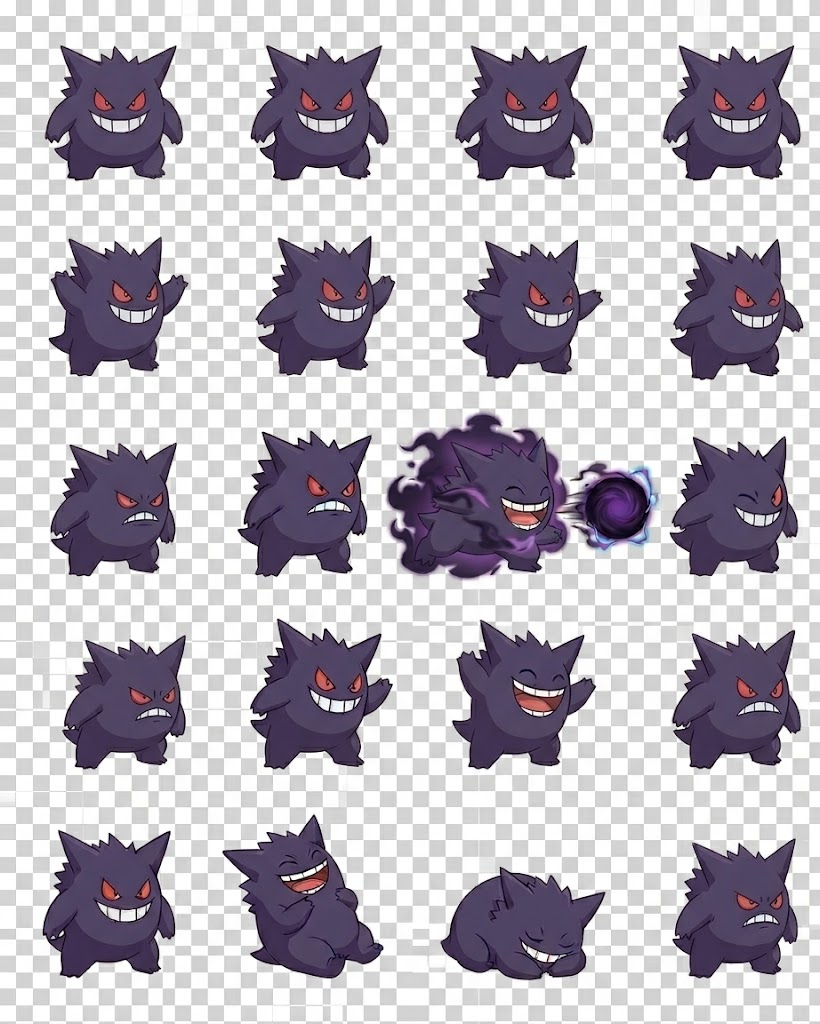
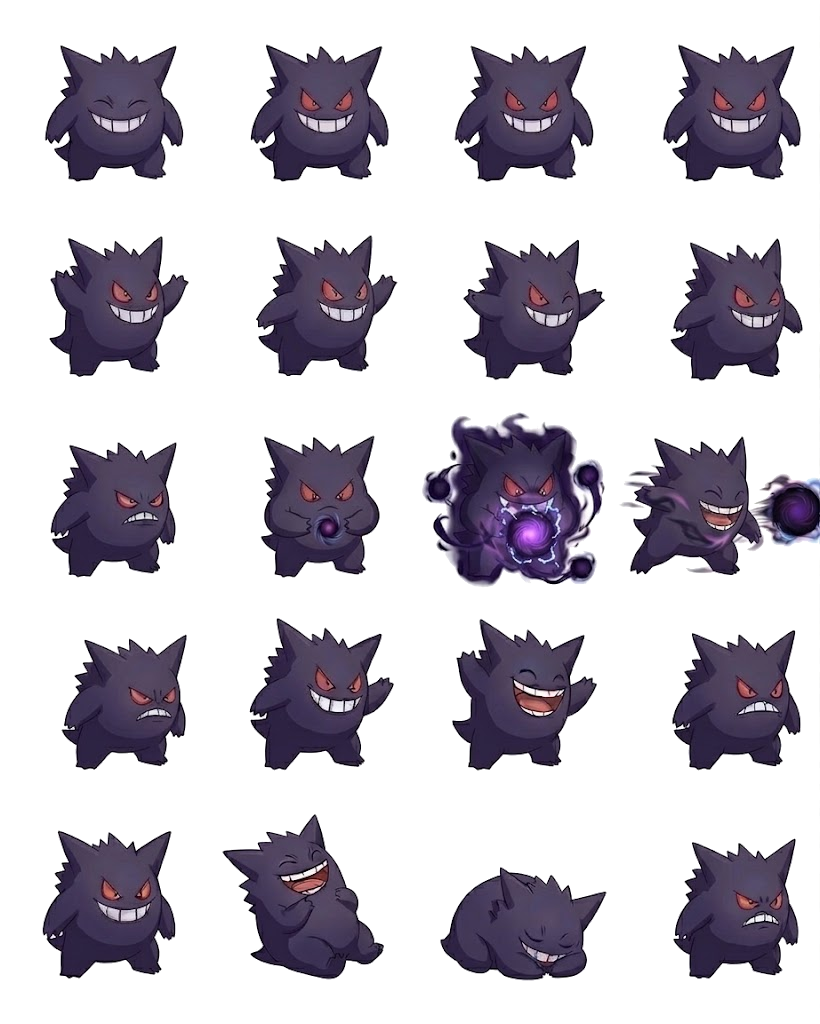
Update Gengar and Pikachu raft sprites

diff --git a/lib/raft-sprites.ts b/lib/raft-sprites.ts
@@ -16,13 +16,19 @@ export const RAFT_SPRITES: Record<string, { sheet?: string; fallback: string; he
   bidoof: { sheet: "/images/raft/bidoof-sheet.png", fallback: "/images/puzzle/bidoof.png", height: 142, element: "rock", color: "#cfad82" },
 };
 
-// The supplied Pikachu sheet places its poses across rows rather than in pose-only rows.
-const PIKACHU_FRAMES: Record<RaftPose, readonly (readonly [number, number])[]> = {
-  breathing: [[0, 1], [0, 2], [4, 0], [4, 3]],
-  walking: [[1, 0], [1, 1], [1, 2], [1, 3]],
-  attacking: [[2, 0], [2, 1], [2, 2], [2, 3]],
-  taunting: [[4, 1], [4, 2], [3, 2], [3, 3]],
-  hit: [[3, 0], [3, 1], [3, 0], [3, 1]],
+// The supplied sheets mix expressions across some rows and have effects at cell edges.
+const SPRITE_FRAME_OVERRIDES: Record<string, Partial<Record<RaftPose, readonly (readonly [number, number])[]>>> = {
+  gengar: {
+    attacking: [[2, 0], [2, 1], [2, 2], [2, 2]],
+    taunting: [[3, 1], [3, 2], [4, 1], [3, 2]],
+    hit: [[3, 0], [3, 3], [4, 3], [4, 2]],
+  },
+  pikachu: {
+    breathing: [[2, 0], [0, 2], [4, 0], [4, 3]],
+    attacking: [[2, 0], [2, 1], [2, 2], [2, 2]],
+    taunting: [[4, 1], [4, 2], [3, 2], [4, 2]],
+    hit: [[3, 0], [3, 1], [3, 0], [3, 1]],
+  },
 };
 
 export function raftSpriteFrame(pose: RaftPose, elapsed: number, reducedMotion: boolean, pokemon?: string): { row: number; column: number } {
@@ -31,8 +37,9 @@ export function raftSpriteFrame(pose: RaftPose, elapsed: number, reducedMotion: 
   // Keep the action readable without recurring spatial motion.
   const column = reducedMotion ? (pose === "breathing" || pose === "walking" ? 0 : pose === "hit" ? 3 : 2)
     : animation.loop ? frame % 4 : Math.min(3, frame);
-  if (pokemon === "pikachu") {
-    const [row, mappedColumn] = PIKACHU_FRAMES[pose][column];
+  const mappedFrame = SPRITE_FRAME_OVERRIDES[pokemon ?? ""]?.[pose]?.[column];
+  if (mappedFrame) {
+    const [row, mappedColumn] = mappedFrame;
     return { row, column: mappedColumn };
   }
   return { row: animation.row, column };

diff --git a/public/images/raft/README.md b/public/images/raft/README.md
@@ -10,9 +10,9 @@
 
 Frames face right; the opposing player's frames are mirrored in the renderer. The canvas scales the sheet cells without modifying the original image.
 
-`gengar-sheet.png` is a user-provided 4-by-5 sheet now used for Gengar. Despite its filename, the supplied file is JPEG-encoded and has an opaque checkerboard background; part of the Shadow Ball crosses an attack-frame boundary. It needs a true transparent PNG with the effect contained in its cell for clean rendering. The `gengar-sheet.prompt.txt` file records an earlier, unsuccessful generation attempt, not the source of this sheet.
+`gengar-sheet.png` is a user-provided transparent PNG (820 by 1024 pixels) used for Gengar. The renderer selects its taunt and hit frames individually so the hit ends on the collapsed pose; it repeats the charged Shadow Ball frame instead of showing the clipped final orb at the sheet edge. The `gengar-sheet.prompt.txt` file records an earlier, unsuccessful generation attempt, not the source of this sheet.
 
-`pikachu-sheet.png` is a user-provided 4-by-5 sheet now used for Pikachu. It is also JPEG-encoded with an opaque checkerboard. Its first row includes an electric attack and its last row shows cheerful poses, so the renderer selects Pikachu's frames individually for breathing, taunting, and hit animations. Some electric effects still cross frame boundaries. A correctly ordered transparent sheet would avoid those visible artifacts. The `pikachu-sheet.prompt.txt` file records an earlier, unsuccessful generation attempt, not the source of this sheet.
+`pikachu-sheet.png` is a user-provided transparent PNG (820 by 1024 pixels) used for Pikachu. Its rows mix idle, attack, taunt, and hit poses, so the renderer selects frames individually. Idle avoids the electric effect bleeding into the first row's second cell, and the attack ends on the electric burst. Some effects still reach cell edges and may appear cropped. The `pikachu-sheet.prompt.txt` file records an earlier, unsuccessful generation attempt, not the source of this sheet.
 
 Generation was also attempted for Charizard. The image tool rejected that output without a specific explanation. `charizard-sheet.prompt.txt` records the attempted prompt; there is no generated sheet for it. The game uses its existing transparent portrait from `../puzzle/`, with procedural breathing, stepping, attack, taunt, and recoil poses. Original artwork attribution is in [the puzzle artwork README](../puzzle/README.md).
 
